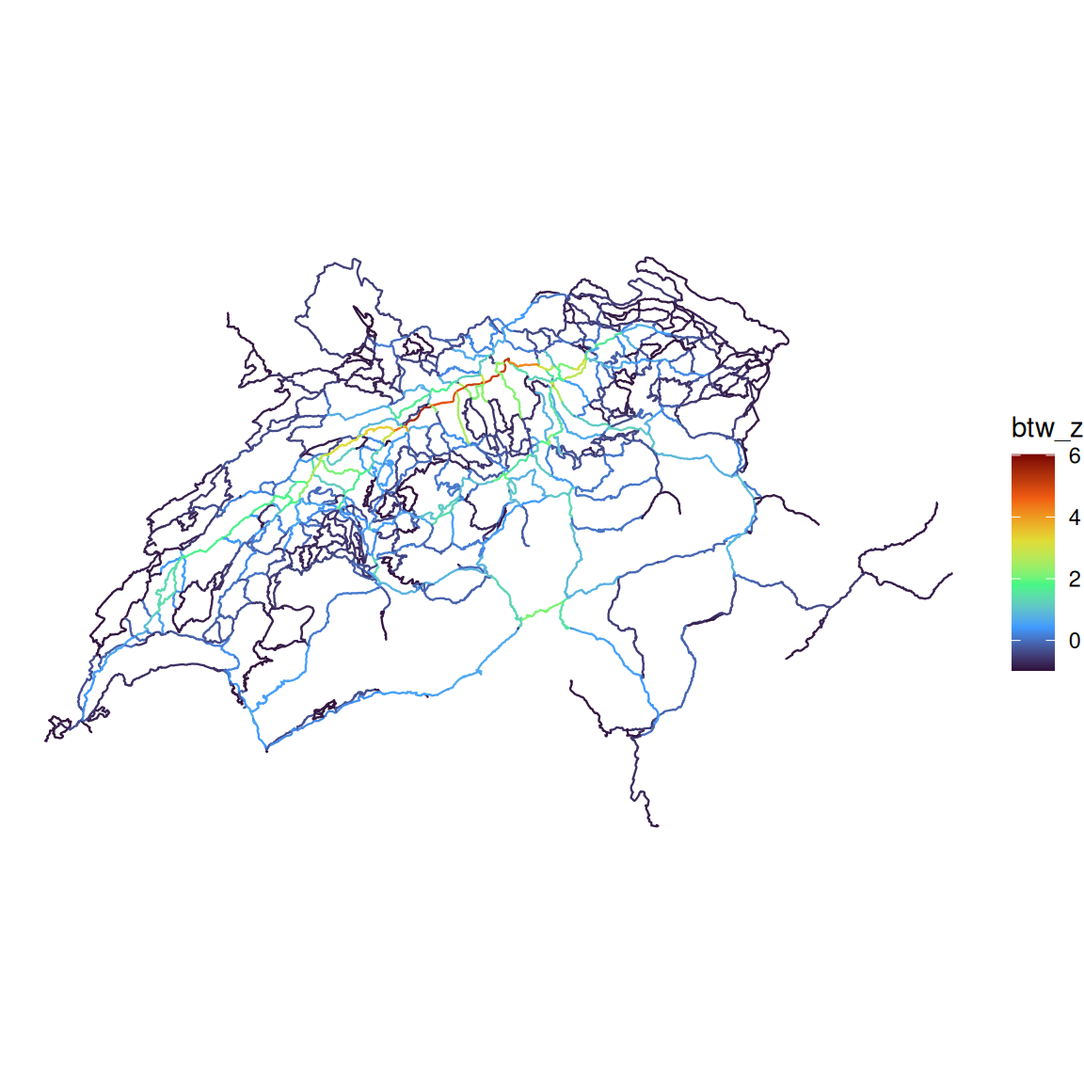
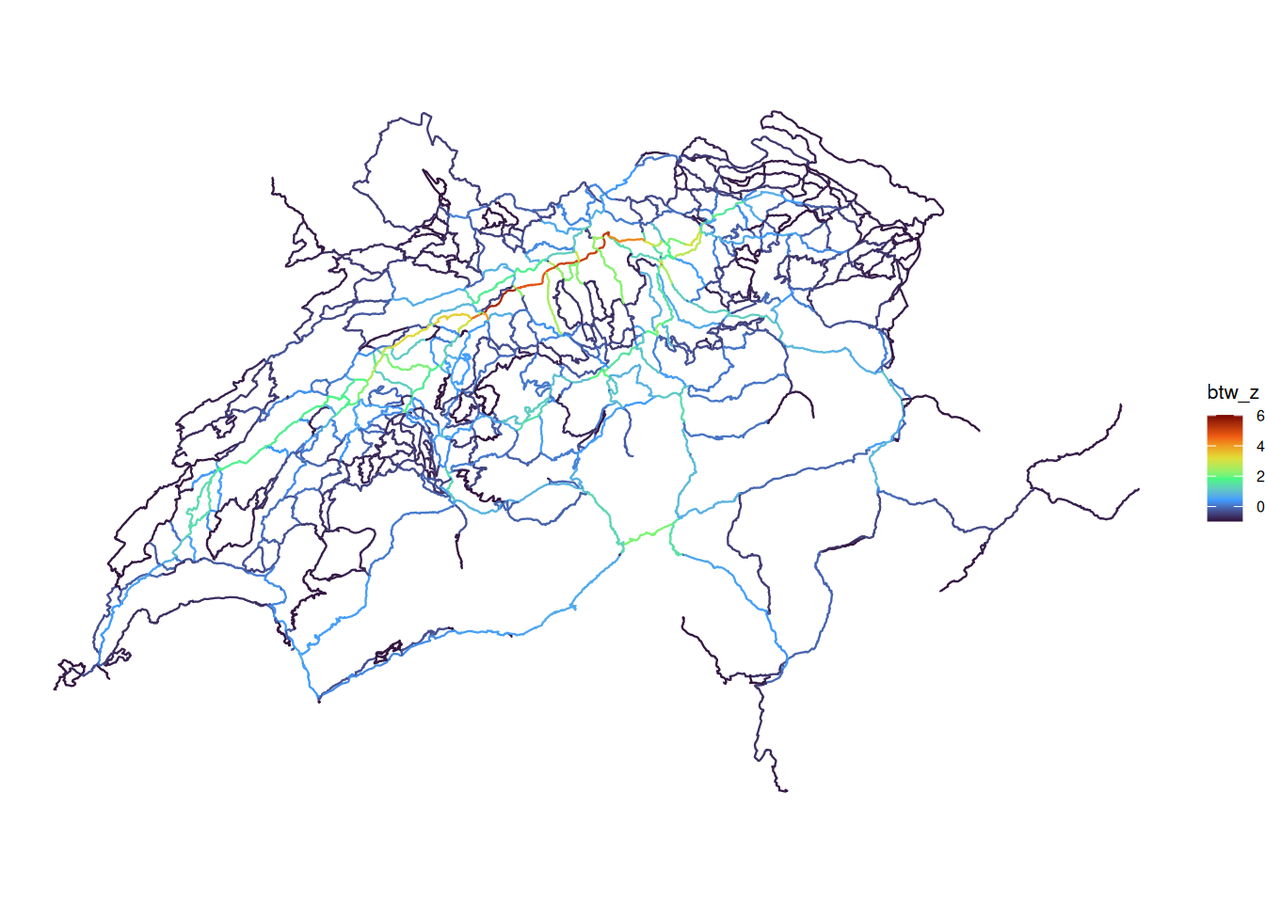
Built site for gh-pages

diff --git a/index.html b/index.html
@@ -244,29 +244,47 @@ Projected CRS: CH1903+ / LV95</code></pre>
 <div class="code-copy-outer-scaffold"><div class="sourceCode cell-code" id="cb9"><pre class="sourceCode r code-with-copy"><code class="sourceCode r"><span id="cb9-1"><a href="#cb9-1" aria-hidden="true" tabindex="-1"></a><span class="fu">ggplot</span>(edges_sf) <span class="sc">+</span> </span>
 <span id="cb9-2"><a href="#cb9-2" aria-hidden="true" tabindex="-1"></a>  <span class="fu">geom_sf</span>(<span class="fu">aes</span>(<span class="at">color =</span> betweenness_centrality), <span class="at">size =</span> <span class="fl">0.4</span>) <span class="sc">+</span> </span>
 <span id="cb9-3"><a href="#cb9-3" aria-hidden="true" tabindex="-1"></a>  <span class="fu">scale_color_viridis_c</span>(<span class="at">option =</span> <span class="st">"turbo"</span>) <span class="sc">+</span> </span>
-<span id="cb9-4"><a href="#cb9-4" aria-hidden="true" tabindex="-1"></a>  <span class="fu">theme_void</span>()</span>
-<span id="cb9-5"><a href="#cb9-5" aria-hidden="true" tabindex="-1"></a><span class="fu">ggplot</span>(edges_sf) <span class="sc">+</span> </span>
-<span id="cb9-6"><a href="#cb9-6" aria-hidden="true" tabindex="-1"></a>  <span class="fu">geom_sf</span>(<span class="fu">aes</span>(<span class="at">color =</span> closeness_centrality), <span class="at">size =</span> <span class="fl">0.4</span>) <span class="sc">+</span> </span>
-<span id="cb9-7"><a href="#cb9-7" aria-hidden="true" tabindex="-1"></a>  <span class="fu">scale_color_viridis_c</span>(<span class="at">option =</span> <span class="st">"turbo"</span>) <span class="sc">+</span> </span>
-<span id="cb9-8"><a href="#cb9-8" aria-hidden="true" tabindex="-1"></a>  <span class="fu">theme_void</span>()</span>
-<span id="cb9-9"><a href="#cb9-9" aria-hidden="true" tabindex="-1"></a><span class="fu">ggplot</span>(edges_sf) <span class="sc">+</span> </span>
-<span id="cb9-10"><a href="#cb9-10" aria-hidden="true" tabindex="-1"></a>  <span class="fu">geom_sf</span>(<span class="fu">aes</span>(<span class="at">color =</span> degree_centrality), <span class="at">size =</span> <span class="fl">0.4</span>) <span class="sc">+</span></span>
-<span id="cb9-11"><a href="#cb9-11" aria-hidden="true" tabindex="-1"></a>  <span class="fu">scale_color_viridis_c</span>(<span class="at">option =</span> <span class="st">"turbo"</span>) <span class="sc">+</span> </span>
-<span id="cb9-12"><a href="#cb9-12" aria-hidden="true" tabindex="-1"></a>  <span class="fu">theme_void</span>()</span></code></pre></div><button title="Copy to Clipboard" class="code-copy-button"><i class="bi"></i></button></div>
+<span id="cb9-4"><a href="#cb9-4" aria-hidden="true" tabindex="-1"></a>  <span class="fu">theme_void</span>() <span class="sc">+</span> </span>
+<span id="cb9-5"><a href="#cb9-5" aria-hidden="true" tabindex="-1"></a>    <span class="fu">theme</span>(</span>
+<span id="cb9-6"><a href="#cb9-6" aria-hidden="true" tabindex="-1"></a>  <span class="at">legend.title =</span> <span class="fu">element_text</span>(<span class="at">size =</span> <span class="dv">8</span>),</span>
+<span id="cb9-7"><a href="#cb9-7" aria-hidden="true" tabindex="-1"></a>  <span class="at">legend.text  =</span> <span class="fu">element_text</span>(<span class="at">size =</span> <span class="dv">6</span>),</span>
+<span id="cb9-8"><a href="#cb9-8" aria-hidden="true" tabindex="-1"></a>  <span class="at">legend.key.height =</span> <span class="fu">unit</span>(<span class="fl">0.3</span>, <span class="st">"cm"</span>),</span>
+<span id="cb9-9"><a href="#cb9-9" aria-hidden="true" tabindex="-1"></a>  <span class="at">legend.key.width  =</span> <span class="fu">unit</span>(<span class="fl">0.5</span>, <span class="st">"cm"</span>)</span>
+<span id="cb9-10"><a href="#cb9-10" aria-hidden="true" tabindex="-1"></a>)</span>
+<span id="cb9-11"><a href="#cb9-11" aria-hidden="true" tabindex="-1"></a><span class="fu">ggplot</span>(edges_sf) <span class="sc">+</span> </span>
+<span id="cb9-12"><a href="#cb9-12" aria-hidden="true" tabindex="-1"></a>  <span class="fu">geom_sf</span>(<span class="fu">aes</span>(<span class="at">color =</span> closeness_centrality), <span class="at">size =</span> <span class="fl">0.4</span>) <span class="sc">+</span> </span>
+<span id="cb9-13"><a href="#cb9-13" aria-hidden="true" tabindex="-1"></a>  <span class="fu">scale_color_viridis_c</span>(<span class="at">option =</span> <span class="st">"turbo"</span>) <span class="sc">+</span> </span>
+<span id="cb9-14"><a href="#cb9-14" aria-hidden="true" tabindex="-1"></a>  <span class="fu">theme_void</span>() <span class="sc">+</span> </span>
+<span id="cb9-15"><a href="#cb9-15" aria-hidden="true" tabindex="-1"></a>    <span class="fu">theme</span>(</span>
+<span id="cb9-16"><a href="#cb9-16" aria-hidden="true" tabindex="-1"></a>  <span class="at">legend.title =</span> <span class="fu">element_text</span>(<span class="at">size =</span> <span class="dv">8</span>),</span>
+<span id="cb9-17"><a href="#cb9-17" aria-hidden="true" tabindex="-1"></a>  <span class="at">legend.text  =</span> <span class="fu">element_text</span>(<span class="at">size =</span> <span class="dv">6</span>),</span>
+<span id="cb9-18"><a href="#cb9-18" aria-hidden="true" tabindex="-1"></a>  <span class="at">legend.key.height =</span> <span class="fu">unit</span>(<span class="fl">0.3</span>, <span class="st">"cm"</span>),</span>
+<span id="cb9-19"><a href="#cb9-19" aria-hidden="true" tabindex="-1"></a>  <span class="at">legend.key.width  =</span> <span class="fu">unit</span>(<span class="fl">0.5</span>, <span class="st">"cm"</span>)</span>
+<span id="cb9-20"><a href="#cb9-20" aria-hidden="true" tabindex="-1"></a>)</span>
+<span id="cb9-21"><a href="#cb9-21" aria-hidden="true" tabindex="-1"></a><span class="fu">ggplot</span>(edges_sf) <span class="sc">+</span> </span>
+<span id="cb9-22"><a href="#cb9-22" aria-hidden="true" tabindex="-1"></a>  <span class="fu">geom_sf</span>(<span class="fu">aes</span>(<span class="at">color =</span> degree_centrality), <span class="at">size =</span> <span class="fl">0.4</span>) <span class="sc">+</span></span>
+<span id="cb9-23"><a href="#cb9-23" aria-hidden="true" tabindex="-1"></a>  <span class="fu">scale_color_viridis_c</span>(<span class="at">option =</span> <span class="st">"turbo"</span>) <span class="sc">+</span> </span>
+<span id="cb9-24"><a href="#cb9-24" aria-hidden="true" tabindex="-1"></a>  <span class="fu">theme_void</span>() <span class="sc">+</span></span>
+<span id="cb9-25"><a href="#cb9-25" aria-hidden="true" tabindex="-1"></a>  <span class="fu">theme</span>(</span>
+<span id="cb9-26"><a href="#cb9-26" aria-hidden="true" tabindex="-1"></a>  <span class="at">legend.title =</span> <span class="fu">element_text</span>(<span class="at">size =</span> <span class="dv">8</span>),</span>
+<span id="cb9-27"><a href="#cb9-27" aria-hidden="true" tabindex="-1"></a>  <span class="at">legend.text  =</span> <span class="fu">element_text</span>(<span class="at">size =</span> <span class="dv">6</span>),</span>
+<span id="cb9-28"><a href="#cb9-28" aria-hidden="true" tabindex="-1"></a>  <span class="at">legend.key.height =</span> <span class="fu">unit</span>(<span class="fl">0.3</span>, <span class="st">"cm"</span>),</span>
+<span id="cb9-29"><a href="#cb9-29" aria-hidden="true" tabindex="-1"></a>  <span class="at">legend.key.width  =</span> <span class="fu">unit</span>(<span class="fl">0.5</span>, <span class="st">"cm"</span>)</span>
+<span id="cb9-30"><a href="#cb9-30" aria-hidden="true" tabindex="-1"></a>)</span></code></pre></div><button title="Copy to Clipboard" class="code-copy-button"><i class="bi"></i></button></div>
 <div class="cell quarto-layout-panel" data-fig-row="3" data-layout-ncol="1">
 <div class="quarto-layout-row">
 <div class="quarto-layout-cell" style="flex-basis: 100.0%;justify-content: center;">
-<p><img src="index_files/figure-html/plot%20raw-1.png" class="img-fluid" width="576"></p>
+<p><img src="index_files/figure-html/plot%20raw-1.png" class="img-fluid" width="1152"></p>
 </div>
 </div>
 <div class="quarto-layout-row">
 <div class="quarto-layout-cell" style="flex-basis: 100.0%;justify-content: center;">
-<p><img src="index_files/figure-html/plot%20raw-2.png" class="img-fluid" width="576"></p>
+<p><img src="index_files/figure-html/plot%20raw-2.png" class="img-fluid" width="1152"></p>
 </div>
 </div>
 <div class="quarto-layout-row">
 <div class="quarto-layout-cell" style="flex-basis: 100.0%;justify-content: center;">
-<p><img src="index_files/figure-html/plot%20raw-3.png" class="img-fluid" width="576"></p>
+<p><img src="index_files/figure-html/plot%20raw-3.png" class="img-fluid" width="1152"></p>
 </div>
 </div>
 </div>
@@ -296,32 +314,56 @@ Projected CRS: CH1903+ / LV95</code></pre>
 <span id="cb12-2"><a href="#cb12-2" aria-hidden="true" tabindex="-1"></a>edges_sf<span class="sc">$</span>clo_z <span class="ot">&lt;-</span> <span class="fu">scale</span>(edges_sf<span class="sc">$</span>closeness_centrality)</span>
 <span id="cb12-3"><a href="#cb12-3" aria-hidden="true" tabindex="-1"></a>edges_sf<span class="sc">$</span>deg_z <span class="ot">&lt;-</span> <span class="fu">scale</span>(edges_sf<span class="sc">$</span>degree_centrality)</span></code></pre></div><button title="Copy to Clipboard" class="code-copy-button"><i class="bi"></i></button></div>
 </div>
+<div class="cell">
 <div class="code-copy-outer-scaffold"><div class="sourceCode cell-code" id="cb13"><pre class="sourceCode r code-with-copy"><code class="sourceCode r"><span id="cb13-1"><a href="#cb13-1" aria-hidden="true" tabindex="-1"></a><span class="fu">ggplot</span>(edges_sf) <span class="sc">+</span> </span>
 <span id="cb13-2"><a href="#cb13-2" aria-hidden="true" tabindex="-1"></a>  <span class="fu">geom_sf</span>(<span class="fu">aes</span>(<span class="at">color =</span> btw_z), <span class="at">size =</span> <span class="fl">0.4</span>) <span class="sc">+</span> </span>
 <span id="cb13-3"><a href="#cb13-3" aria-hidden="true" tabindex="-1"></a>  <span class="fu">scale_color_viridis_c</span>(<span class="at">option =</span> <span class="st">"turbo"</span>) <span class="sc">+</span> </span>
-<span id="cb13-4"><a href="#cb13-4" aria-hidden="true" tabindex="-1"></a>  <span class="fu">theme_void</span>()</span>
-<span id="cb13-5"><a href="#cb13-5" aria-hidden="true" tabindex="-1"></a><span class="fu">ggplot</span>(edges_sf) <span class="sc">+</span> </span>
-<span id="cb13-6"><a href="#cb13-6" aria-hidden="true" tabindex="-1"></a>  <span class="fu">geom_sf</span>(<span class="fu">aes</span>(<span class="at">color =</span> clo_z), <span class="at">size =</span> <span class="fl">0.4</span>) <span class="sc">+</span> </span>
-<span id="cb13-7"><a href="#cb13-7" aria-hidden="true" tabindex="-1"></a>  <span class="fu">scale_color_viridis_c</span>(<span class="at">option =</span> <span class="st">"turbo"</span>) <span class="sc">+</span> </span>
-<span id="cb13-8"><a href="#cb13-8" aria-hidden="true" tabindex="-1"></a>  <span class="fu">theme_void</span>()</span>
-<span id="cb13-9"><a href="#cb13-9" aria-hidden="true" tabindex="-1"></a><span class="fu">ggplot</span>(edges_sf) <span class="sc">+</span> </span>
-<span id="cb13-10"><a href="#cb13-10" aria-hidden="true" tabindex="-1"></a>  <span class="fu">geom_sf</span>(<span class="fu">aes</span>(<span class="at">color =</span> deg_z), <span class="at">size =</span> <span class="fl">0.4</span>) <span class="sc">+</span></span>
-<span id="cb13-11"><a href="#cb13-11" aria-hidden="true" tabindex="-1"></a>  <span class="fu">scale_color_viridis_c</span>(<span class="at">option =</span> <span class="st">"turbo"</span>) <span class="sc">+</span> </span>
-<span id="cb13-12"><a href="#cb13-12" aria-hidden="true" tabindex="-1"></a>  <span class="fu">theme_void</span>()</span></code></pre></div><button title="Copy to Clipboard" class="code-copy-button"><i class="bi"></i></button></div>
-<div class="cell quarto-layout-panel" data-fig-row="3" data-layout-ncol="1">
-<div class="quarto-layout-row">
-<div class="quarto-layout-cell" style="flex-basis: 100.0%;justify-content: center;">
-<p><img src="index_files/figure-html/plot%20z-scores-1.png" class="img-fluid" width="576"></p>
+<span id="cb13-4"><a href="#cb13-4" aria-hidden="true" tabindex="-1"></a>  <span class="fu">theme_void</span>()  <span class="sc">+</span> </span>
+<span id="cb13-5"><a href="#cb13-5" aria-hidden="true" tabindex="-1"></a>    <span class="fu">theme</span>(</span>
+<span id="cb13-6"><a href="#cb13-6" aria-hidden="true" tabindex="-1"></a>  <span class="at">legend.title =</span> <span class="fu">element_text</span>(<span class="at">size =</span> <span class="dv">8</span>),</span>
+<span id="cb13-7"><a href="#cb13-7" aria-hidden="true" tabindex="-1"></a>  <span class="at">legend.text  =</span> <span class="fu">element_text</span>(<span class="at">size =</span> <span class="dv">6</span>),</span>
+<span id="cb13-8"><a href="#cb13-8" aria-hidden="true" tabindex="-1"></a>  <span class="at">legend.key.height =</span> <span class="fu">unit</span>(<span class="fl">0.3</span>, <span class="st">"cm"</span>),</span>
+<span id="cb13-9"><a href="#cb13-9" aria-hidden="true" tabindex="-1"></a>  <span class="at">legend.key.width  =</span> <span class="fu">unit</span>(<span class="fl">0.5</span>, <span class="st">"cm"</span>)</span>
+<span id="cb13-10"><a href="#cb13-10" aria-hidden="true" tabindex="-1"></a>)</span></code></pre></div><button title="Copy to Clipboard" class="code-copy-button"><i class="bi"></i></button></div>
+<div class="cell-output-display">
+<div>
+<figure class="figure">
+<p><img src="index_files/figure-html/plot%20z-scores-1.png" class="img-fluid figure-img" width="672"></p>
+</figure>
 </div>
 </div>
-<div class="quarto-layout-row">
-<div class="quarto-layout-cell" style="flex-basis: 100.0%;justify-content: center;">
-<p><img src="index_files/figure-html/plot%20z-scores-2.png" class="img-fluid" width="576"></p>
+<div class="code-copy-outer-scaffold"><div class="sourceCode cell-code" id="cb14"><pre class="sourceCode r code-with-copy"><code class="sourceCode r"><span id="cb14-1"><a href="#cb14-1" aria-hidden="true" tabindex="-1"></a><span class="fu">ggplot</span>(edges_sf) <span class="sc">+</span> </span>
+<span id="cb14-2"><a href="#cb14-2" aria-hidden="true" tabindex="-1"></a>  <span class="fu">geom_sf</span>(<span class="fu">aes</span>(<span class="at">color =</span> clo_z), <span class="at">size =</span> <span class="fl">0.4</span>) <span class="sc">+</span> </span>
+<span id="cb14-3"><a href="#cb14-3" aria-hidden="true" tabindex="-1"></a>  <span class="fu">scale_color_viridis_c</span>(<span class="at">option =</span> <span class="st">"turbo"</span>) <span class="sc">+</span> </span>
+<span id="cb14-4"><a href="#cb14-4" aria-hidden="true" tabindex="-1"></a>  <span class="fu">theme_void</span>()  <span class="sc">+</span> </span>
+<span id="cb14-5"><a href="#cb14-5" aria-hidden="true" tabindex="-1"></a>    <span class="fu">theme</span>(</span>
+<span id="cb14-6"><a href="#cb14-6" aria-hidden="true" tabindex="-1"></a>  <span class="at">legend.title =</span> <span class="fu">element_text</span>(<span class="at">size =</span> <span class="dv">8</span>),</span>
+<span id="cb14-7"><a href="#cb14-7" aria-hidden="true" tabindex="-1"></a>  <span class="at">legend.text  =</span> <span class="fu">element_text</span>(<span class="at">size =</span> <span class="dv">6</span>),</span>
+<span id="cb14-8"><a href="#cb14-8" aria-hidden="true" tabindex="-1"></a>  <span class="at">legend.key.height =</span> <span class="fu">unit</span>(<span class="fl">0.3</span>, <span class="st">"cm"</span>),</span>
+<span id="cb14-9"><a href="#cb14-9" aria-hidden="true" tabindex="-1"></a>  <span class="at">legend.key.width  =</span> <span class="fu">unit</span>(<span class="fl">0.5</span>, <span class="st">"cm"</span>)</span>
+<span id="cb14-10"><a href="#cb14-10" aria-hidden="true" tabindex="-1"></a>)</span></code></pre></div><button title="Copy to Clipboard" class="code-copy-button"><i class="bi"></i></button></div>
+<div class="cell-output-display">
+<div>
+<figure class="figure">
+<p><img src="index_files/figure-html/plot%20z-scores-2.png" class="img-fluid figure-img" width="672"></p>
+</figure>
 </div>
 </div>
-<div class="quarto-layout-row">
-<div class="quarto-layout-cell" style="flex-basis: 100.0%;justify-content: center;">
-<p><img src="index_files/figure-html/plot%20z-scores-3.png" class="img-fluid" width="576"></p>
+<div class="code-copy-outer-scaffold"><div class="sourceCode cell-code" id="cb15"><pre class="sourceCode r code-with-copy"><code class="sourceCode r"><span id="cb15-1"><a href="#cb15-1" aria-hidden="true" tabindex="-1"></a><span class="fu">ggplot</span>(edges_sf) <span class="sc">+</span> </span>
+<span id="cb15-2"><a href="#cb15-2" aria-hidden="true" tabindex="-1"></a>  <span class="fu">geom_sf</span>(<span class="fu">aes</span>(<span class="at">color =</span> deg_z), <span class="at">size =</span> <span class="fl">0.4</span>) <span class="sc">+</span></span>
+<span id="cb15-3"><a href="#cb15-3" aria-hidden="true" tabindex="-1"></a>  <span class="fu">scale_color_viridis_c</span>(<span class="at">option =</span> <span class="st">"turbo"</span>) <span class="sc">+</span> </span>
+<span id="cb15-4"><a href="#cb15-4" aria-hidden="true" tabindex="-1"></a>  <span class="fu">theme_void</span>() <span class="sc">+</span> </span>
+<span id="cb15-5"><a href="#cb15-5" aria-hidden="true" tabindex="-1"></a>    <span class="fu">theme</span>(</span>
+<span id="cb15-6"><a href="#cb15-6" aria-hidden="true" tabindex="-1"></a>  <span class="at">legend.title =</span> <span class="fu">element_text</span>(<span class="at">size =</span> <span class="dv">8</span>),</span>
+<span id="cb15-7"><a href="#cb15-7" aria-hidden="true" tabindex="-1"></a>  <span class="at">legend.text  =</span> <span class="fu">element_text</span>(<span class="at">size =</span> <span class="dv">6</span>),</span>
+<span id="cb15-8"><a href="#cb15-8" aria-hidden="true" tabindex="-1"></a>  <span class="at">legend.key.height =</span> <span class="fu">unit</span>(<span class="fl">0.3</span>, <span class="st">"cm"</span>),</span>
+<span id="cb15-9"><a href="#cb15-9" aria-hidden="true" tabindex="-1"></a>  <span class="at">legend.key.width  =</span> <span class="fu">unit</span>(<span class="fl">0.5</span>, <span class="st">"cm"</span>)</span>
+<span id="cb15-10"><a href="#cb15-10" aria-hidden="true" tabindex="-1"></a>)</span></code></pre></div><button title="Copy to Clipboard" class="code-copy-button"><i class="bi"></i></button></div>
+<div class="cell-output-display">
+<div>
+<figure class="figure">
+<p><img src="index_files/figure-html/plot%20z-scores-3.png" class="img-fluid figure-img" width="672"></p>
+</figure>
 </div>
 </div>
 </div>
@@ -353,10 +395,10 @@ Projected CRS: CH1903+ / LV95</code></pre>
 <h3 class="anchored" data-anchor-id="prepare-the-data">Prepare the data</h3>
 <p>In this first step, I load the location data from a GeoPackage file into R using st_read(). This gives me a spatial dataset of all relevant places that I will use as start and end points for the routing analysis.</p>
 <div class="cell">
-<div class="code-copy-outer-scaffold"><div class="sourceCode cell-code" id="cb14"><pre class="sourceCode r code-with-copy"><code class="sourceCode r"><span id="cb14-1"><a href="#cb14-1" aria-hidden="true" tabindex="-1"></a><span class="co"># Construct the file path</span></span>
-<span id="cb14-2"><a href="#cb14-2" aria-hidden="true" tabindex="-1"></a>gpkg_path_locs <span class="ot">&lt;-</span> <span class="fu">file.path</span>(<span class="fu">Sys.getenv</span>(<span class="st">"GEODATA"</span>), <span class="st">"locations.gpkg"</span>)</span>
-<span id="cb14-3"><a href="#cb14-3" aria-hidden="true" tabindex="-1"></a></span>
-<span id="cb14-4"><a href="#cb14-4" aria-hidden="true" tabindex="-1"></a>locations <span class="ot">&lt;-</span> <span class="fu">st_read</span>(gpkg_path_locs)</span></code></pre></div><button title="Copy to Clipboard" class="code-copy-button"><i class="bi"></i></button></div>
+<div class="code-copy-outer-scaffold"><div class="sourceCode cell-code" id="cb16"><pre class="sourceCode r code-with-copy"><code class="sourceCode r"><span id="cb16-1"><a href="#cb16-1" aria-hidden="true" tabindex="-1"></a><span class="co"># Construct the file path</span></span>
+<span id="cb16-2"><a href="#cb16-2" aria-hidden="true" tabindex="-1"></a>gpkg_path_locs <span class="ot">&lt;-</span> <span class="fu">file.path</span>(<span class="fu">Sys.getenv</span>(<span class="st">"GEODATA"</span>), <span class="st">"locations.gpkg"</span>)</span>
+<span id="cb16-3"><a href="#cb16-3" aria-hidden="true" tabindex="-1"></a></span>
+<span id="cb16-4"><a href="#cb16-4" aria-hidden="true" tabindex="-1"></a>locations <span class="ot">&lt;-</span> <span class="fu">st_read</span>(gpkg_path_locs)</span></code></pre></div><button title="Copy to Clipboard" class="code-copy-button"><i class="bi"></i></button></div>
 <div class="cell-output cell-output-stdout">
 <pre><code>Reading layer `locations' from data source 
   `/home/rhoumyas/data/geodata/locations.gpkg' using driver `GPKG'
@@ -372,87 +414,87 @@ Projected CRS: CH1903+ / LV95</code></pre>
 <h3 class="anchored" data-anchor-id="defining-origin-and-destinations">Defining origin and destinations</h3>
 <p>From this set, I define one specific location (Chiasso) as the origin, and all other locations as destinations.</p>
 <div class="cell">
-<div class="code-copy-outer-scaffold"><div class="sourceCode cell-code" id="cb16"><pre class="sourceCode r code-with-copy"><code class="sourceCode r"><span id="cb16-1"><a href="#cb16-1" aria-hidden="true" tabindex="-1"></a>origin <span class="ot">&lt;-</span> locations <span class="sc">%&gt;%</span></span>
-<span id="cb16-2"><a href="#cb16-2" aria-hidden="true" tabindex="-1"></a>  <span class="fu">filter</span>(Ortschaft <span class="sc">==</span> <span class="st">"Chiasso"</span>)</span>
-<span id="cb16-3"><a href="#cb16-3" aria-hidden="true" tabindex="-1"></a></span>
-<span id="cb16-4"><a href="#cb16-4" aria-hidden="true" tabindex="-1"></a>destination <span class="ot">&lt;-</span> locations <span class="sc">%&gt;%</span></span>
-<span id="cb16-5"><a href="#cb16-5" aria-hidden="true" tabindex="-1"></a>  <span class="fu">filter</span>(Ortschaft <span class="sc">!=</span> <span class="st">"Chiasso"</span>)</span></code></pre></div><button title="Copy to Clipboard" class="code-copy-button"><i class="bi"></i></button></div>
+<div class="code-copy-outer-scaffold"><div class="sourceCode cell-code" id="cb18"><pre class="sourceCode r code-with-copy"><code class="sourceCode r"><span id="cb18-1"><a href="#cb18-1" aria-hidden="true" tabindex="-1"></a>origin <span class="ot">&lt;-</span> locations <span class="sc">%&gt;%</span></span>
+<span id="cb18-2"><a href="#cb18-2" aria-hidden="true" tabindex="-1"></a>  <span class="fu">filter</span>(Ortschaft <span class="sc">==</span> <span class="st">"Chiasso"</span>)</span>
+<span id="cb18-3"><a href="#cb18-3" aria-hidden="true" tabindex="-1"></a></span>
+<span id="cb18-4"><a href="#cb18-4" aria-hidden="true" tabindex="-1"></a>destination <span class="ot">&lt;-</span> locations <span class="sc">%&gt;%</span></span>
+<span id="cb18-5"><a href="#cb18-5" aria-hidden="true" tabindex="-1"></a>  <span class="fu">filter</span>(Ortschaft <span class="sc">!=</span> <span class="st">"Chiasso"</span>)</span></code></pre></div><button title="Copy to Clipboard" class="code-copy-button"><i class="bi"></i></button></div>
 </div>
 </section>
 <section id="computing-the-shortest-paths" class="level3">
 <h3 class="anchored" data-anchor-id="computing-the-shortest-paths">Computing the shortest paths</h3>
 <p>Here, I calculate the shortest paths from the origin (Chiasso) to all destination points using <code>st_network_paths()</code>. I use the network structure created earlier (Task 1) and define the edge length as the weight, so the algorithm finds the shortest distance-based routes through the cycling network. The output gives me a list of edges for each origin–destination pair.</p>
 <div class="cell">
-<div class="code-copy-outer-scaffold"><div class="sourceCode cell-code" id="cb17"><pre class="sourceCode r code-with-copy"><code class="sourceCode r"><span id="cb17-1"><a href="#cb17-1" aria-hidden="true" tabindex="-1"></a>paths <span class="ot">&lt;-</span> <span class="fu">st_network_paths</span>(</span>
-<span id="cb17-2"><a href="#cb17-2" aria-hidden="true" tabindex="-1"></a>  veloland_net,</span>
-<span id="cb17-3"><a href="#cb17-3" aria-hidden="true" tabindex="-1"></a>  <span class="at">from =</span> origin,</span>
-<span id="cb17-4"><a href="#cb17-4" aria-hidden="true" tabindex="-1"></a>  <span class="at">to =</span> destination,</span>
-<span id="cb17-5"><a href="#cb17-5" aria-hidden="true" tabindex="-1"></a>  <span class="at">weights =</span> veloland_net<span class="sc">$</span>length</span>
-<span id="cb17-6"><a href="#cb17-6" aria-hidden="true" tabindex="-1"></a>)</span></code></pre></div><button title="Copy to Clipboard" class="code-copy-button"><i class="bi"></i></button></div>
+<div class="code-copy-outer-scaffold"><div class="sourceCode cell-code" id="cb19"><pre class="sourceCode r code-with-copy"><code class="sourceCode r"><span id="cb19-1"><a href="#cb19-1" aria-hidden="true" tabindex="-1"></a>paths <span class="ot">&lt;-</span> <span class="fu">st_network_paths</span>(</span>
+<span id="cb19-2"><a href="#cb19-2" aria-hidden="true" tabindex="-1"></a>  veloland_net,</span>
+<span id="cb19-3"><a href="#cb19-3" aria-hidden="true" tabindex="-1"></a>  <span class="at">from =</span> origin,</span>
+<span id="cb19-4"><a href="#cb19-4" aria-hidden="true" tabindex="-1"></a>  <span class="at">to =</span> destination,</span>
+<span id="cb19-5"><a href="#cb19-5" aria-hidden="true" tabindex="-1"></a>  <span class="at">weights =</span> veloland_net<span class="sc">$</span>length</span>
+<span id="cb19-6"><a href="#cb19-6" aria-hidden="true" tabindex="-1"></a>)</span></code></pre></div><button title="Copy to Clipboard" class="code-copy-button"><i class="bi"></i></button></div>
 </div>
 </section>
 <section id="build-edge-path-structure" class="level3">
 <h3 class="anchored" data-anchor-id="build-edge-path-structure">Build edge-path structure</h3>
 <p>In this step, I reorganise the raw output of the shortest path function into a structured format. I create a table that links each destination to the specific network edges used in its shortest path. Then I join this information back to the spatial edge data so that each edge knows which destination it belongs to. This allows me to visualise each route separately instead of merging everything into one combined result.</p>
 <div class="cell">
-<div class="code-copy-outer-scaffold"><div class="sourceCode cell-code" id="cb18"><pre class="sourceCode r code-with-copy"><code class="sourceCode r"><span id="cb18-1"><a href="#cb18-1" aria-hidden="true" tabindex="-1"></a>path_df <span class="ot">&lt;-</span> <span class="fu">tibble</span>(</span>
-<span id="cb18-2"><a href="#cb18-2" aria-hidden="true" tabindex="-1"></a>  <span class="at">dest_id =</span> <span class="fu">rep</span>(<span class="fu">seq_along</span>(paths<span class="sc">$</span>edge_paths), <span class="fu">lengths</span>(paths<span class="sc">$</span>edge_paths)),</span>
-<span id="cb18-3"><a href="#cb18-3" aria-hidden="true" tabindex="-1"></a>  <span class="at">edge_id =</span> <span class="fu">unlist</span>(paths<span class="sc">$</span>edge_paths)</span>
-<span id="cb18-4"><a href="#cb18-4" aria-hidden="true" tabindex="-1"></a>)</span>
-<span id="cb18-5"><a href="#cb18-5" aria-hidden="true" tabindex="-1"></a></span>
-<span id="cb18-6"><a href="#cb18-6" aria-hidden="true" tabindex="-1"></a>edges <span class="ot">&lt;-</span> veloland_net <span class="sc">%&gt;%</span></span>
-<span id="cb18-7"><a href="#cb18-7" aria-hidden="true" tabindex="-1"></a>  <span class="fu">activate</span>(edges) <span class="sc">%&gt;%</span></span>
-<span id="cb18-8"><a href="#cb18-8" aria-hidden="true" tabindex="-1"></a>  <span class="fu">st_as_sf</span>() <span class="sc">%&gt;%</span></span>
-<span id="cb18-9"><a href="#cb18-9" aria-hidden="true" tabindex="-1"></a>  <span class="fu">mutate</span>(<span class="at">edge_id =</span> <span class="fu">row_number</span>())</span>
-<span id="cb18-10"><a href="#cb18-10" aria-hidden="true" tabindex="-1"></a></span>
-<span id="cb18-11"><a href="#cb18-11" aria-hidden="true" tabindex="-1"></a>edges_paths <span class="ot">&lt;-</span> path_df <span class="sc">%&gt;%</span></span>
-<span id="cb18-12"><a href="#cb18-12" aria-hidden="true" tabindex="-1"></a>  <span class="fu">left_join</span>(edges, <span class="at">by =</span> <span class="st">"edge_id"</span>) <span class="sc">%&gt;%</span></span>
-<span id="cb18-13"><a href="#cb18-13" aria-hidden="true" tabindex="-1"></a>  <span class="fu">st_as_sf</span>()</span></code></pre></div><button title="Copy to Clipboard" class="code-copy-button"><i class="bi"></i></button></div>
+<div class="code-copy-outer-scaffold"><div class="sourceCode cell-code" id="cb20"><pre class="sourceCode r code-with-copy"><code class="sourceCode r"><span id="cb20-1"><a href="#cb20-1" aria-hidden="true" tabindex="-1"></a>path_df <span class="ot">&lt;-</span> <span class="fu">tibble</span>(</span>
+<span id="cb20-2"><a href="#cb20-2" aria-hidden="true" tabindex="-1"></a>  <span class="at">dest_id =</span> <span class="fu">rep</span>(<span class="fu">seq_along</span>(paths<span class="sc">$</span>edge_paths), <span class="fu">lengths</span>(paths<span class="sc">$</span>edge_paths)),</span>
+<span id="cb20-3"><a href="#cb20-3" aria-hidden="true" tabindex="-1"></a>  <span class="at">edge_id =</span> <span class="fu">unlist</span>(paths<span class="sc">$</span>edge_paths)</span>
+<span id="cb20-4"><a href="#cb20-4" aria-hidden="true" tabindex="-1"></a>)</span>
+<span id="cb20-5"><a href="#cb20-5" aria-hidden="true" tabindex="-1"></a></span>
+<span id="cb20-6"><a href="#cb20-6" aria-hidden="true" tabindex="-1"></a>edges <span class="ot">&lt;-</span> veloland_net <span class="sc">%&gt;%</span></span>
+<span id="cb20-7"><a href="#cb20-7" aria-hidden="true" tabindex="-1"></a>  <span class="fu">activate</span>(edges) <span class="sc">%&gt;%</span></span>
+<span id="cb20-8"><a href="#cb20-8" aria-hidden="true" tabindex="-1"></a>  <span class="fu">st_as_sf</span>() <span class="sc">%&gt;%</span></span>
+<span id="cb20-9"><a href="#cb20-9" aria-hidden="true" tabindex="-1"></a>  <span class="fu">mutate</span>(<span class="at">edge_id =</span> <span class="fu">row_number</span>())</span>
+<span id="cb20-10"><a href="#cb20-10" aria-hidden="true" tabindex="-1"></a></span>
+<span id="cb20-11"><a href="#cb20-11" aria-hidden="true" tabindex="-1"></a>edges_paths <span class="ot">&lt;-</span> path_df <span class="sc">%&gt;%</span></span>
+<span id="cb20-12"><a href="#cb20-12" aria-hidden="true" tabindex="-1"></a>  <span class="fu">left_join</span>(edges, <span class="at">by =</span> <span class="st">"edge_id"</span>) <span class="sc">%&gt;%</span></span>
+<span id="cb20-13"><a href="#cb20-13" aria-hidden="true" tabindex="-1"></a>  <span class="fu">st_as_sf</span>()</span></code></pre></div><button title="Copy to Clipboard" class="code-copy-button"><i class="bi"></i></button></div>
 </div>
 </section>
 <section id="visualise-routing-results" class="level3">
 <h3 class="anchored" data-anchor-id="visualise-routing-results">Visualise routing results</h3>
 <p>Finally, I visualise the full network together with the computed shortest paths. The grey lines represent the full cycling network, while the coloured lines show the shortest paths from Chiasso to each destination, with different colours for each target location. I also plot the origin in red and the destination points in black, and I add labels for all locations to make the map easier to interpret. The origin is additionally highlighted as “Start” to clearly indicate the reference point.</p>
 <div class="cell">
-<div class="code-copy-outer-scaffold"><div class="sourceCode cell-code" id="cb19"><pre class="sourceCode r code-with-copy"><code class="sourceCode r"><span id="cb19-1"><a href="#cb19-1" aria-hidden="true" tabindex="-1"></a><span class="fu">ggplot</span>() <span class="sc">+</span></span>
-<span id="cb19-2"><a href="#cb19-2" aria-hidden="true" tabindex="-1"></a>  <span class="fu">geom_sf</span>(<span class="at">data =</span> edges, <span class="at">color =</span> <span class="st">"grey85"</span>, <span class="at">size =</span> <span class="fl">0.2</span>) <span class="sc">+</span></span>
-<span id="cb19-3"><a href="#cb19-3" aria-hidden="true" tabindex="-1"></a>  </span>
-<span id="cb19-4"><a href="#cb19-4" aria-hidden="true" tabindex="-1"></a>  <span class="fu">geom_sf</span>(</span>
-<span id="cb19-5"><a href="#cb19-5" aria-hidden="true" tabindex="-1"></a>    <span class="at">data =</span> edges_paths,</span>
-<span id="cb19-6"><a href="#cb19-6" aria-hidden="true" tabindex="-1"></a>    <span class="fu">aes</span>(<span class="at">color =</span> <span class="fu">factor</span>(dest_id)),</span>
-<span id="cb19-7"><a href="#cb19-7" aria-hidden="true" tabindex="-1"></a>    <span class="at">size =</span> <span class="fl">0.6</span>,</span>
-<span id="cb19-8"><a href="#cb19-8" aria-hidden="true" tabindex="-1"></a>    <span class="at">alpha =</span> <span class="fl">0.5</span></span>
-<span id="cb19-9"><a href="#cb19-9" aria-hidden="true" tabindex="-1"></a>  ) <span class="sc">+</span></span>
-<span id="cb19-10"><a href="#cb19-10" aria-hidden="true" tabindex="-1"></a>  </span>
-<span id="cb19-11"><a href="#cb19-11" aria-hidden="true" tabindex="-1"></a>  <span class="fu">geom_sf</span>(<span class="at">data =</span> origin, <span class="at">color =</span> <span class="st">"red"</span>, <span class="at">size =</span> <span class="dv">2</span>) <span class="sc">+</span></span>
-<span id="cb19-12"><a href="#cb19-12" aria-hidden="true" tabindex="-1"></a>  <span class="fu">geom_sf</span>(<span class="at">data =</span> destination, <span class="at">color =</span> <span class="st">"black"</span>, <span class="at">size =</span> <span class="dv">2</span>) <span class="sc">+</span></span>
-<span id="cb19-13"><a href="#cb19-13" aria-hidden="true" tabindex="-1"></a>  </span>
-<span id="cb19-14"><a href="#cb19-14" aria-hidden="true" tabindex="-1"></a>   <span class="co"># labels</span></span>
-<span id="cb19-15"><a href="#cb19-15" aria-hidden="true" tabindex="-1"></a>  <span class="fu">geom_sf_text</span>(</span>
-<span id="cb19-16"><a href="#cb19-16" aria-hidden="true" tabindex="-1"></a>    <span class="at">data =</span> locations,</span>
-<span id="cb19-17"><a href="#cb19-17" aria-hidden="true" tabindex="-1"></a>    <span class="fu">aes</span>(<span class="at">label =</span> Ortschaft),</span>
-<span id="cb19-18"><a href="#cb19-18" aria-hidden="true" tabindex="-1"></a>    <span class="at">size =</span> <span class="dv">3</span>,</span>
-<span id="cb19-19"><a href="#cb19-19" aria-hidden="true" tabindex="-1"></a>    <span class="at">check_overlap =</span> <span class="cn">TRUE</span>,</span>
-<span id="cb19-20"><a href="#cb19-20" aria-hidden="true" tabindex="-1"></a>    <span class="at">nudge_x =</span> <span class="sc">-</span><span class="dv">4500</span>,</span>
-<span id="cb19-21"><a href="#cb19-21" aria-hidden="true" tabindex="-1"></a>    <span class="at">nudge_y =</span> <span class="dv">3000</span>,</span>
-<span id="cb19-22"><a href="#cb19-22" aria-hidden="true" tabindex="-1"></a>    <span class="at">hjust =</span> <span class="dv">1</span></span>
-<span id="cb19-23"><a href="#cb19-23" aria-hidden="true" tabindex="-1"></a>  ) <span class="sc">+</span></span>
-<span id="cb19-24"><a href="#cb19-24" aria-hidden="true" tabindex="-1"></a>  </span>
-<span id="cb19-25"><a href="#cb19-25" aria-hidden="true" tabindex="-1"></a>  <span class="fu">geom_sf_text</span>(</span>
-<span id="cb19-26"><a href="#cb19-26" aria-hidden="true" tabindex="-1"></a>    <span class="at">data =</span> origin,</span>
-<span id="cb19-27"><a href="#cb19-27" aria-hidden="true" tabindex="-1"></a>    <span class="fu">aes</span>(<span class="at">label =</span> <span class="st">"Start"</span>),</span>
-<span id="cb19-28"><a href="#cb19-28" aria-hidden="true" tabindex="-1"></a>    <span class="at">color=</span><span class="st">'red'</span>,</span>
-<span id="cb19-29"><a href="#cb19-29" aria-hidden="true" tabindex="-1"></a>    <span class="at">size =</span> <span class="dv">3</span>,</span>
-<span id="cb19-30"><a href="#cb19-30" aria-hidden="true" tabindex="-1"></a>    <span class="at">check_overlap =</span> <span class="cn">TRUE</span>,</span>
-<span id="cb19-31"><a href="#cb19-31" aria-hidden="true" tabindex="-1"></a>    <span class="at">nudge_x =</span> <span class="sc">+</span><span class="dv">4500</span>,</span>
-<span id="cb19-32"><a href="#cb19-32" aria-hidden="true" tabindex="-1"></a>    <span class="at">nudge_y =</span> <span class="dv">3000</span>,</span>
-<span id="cb19-33"><a href="#cb19-33" aria-hidden="true" tabindex="-1"></a>    <span class="at">hjust =</span> <span class="dv">0</span>,</span>
-<span id="cb19-34"><a href="#cb19-34" aria-hidden="true" tabindex="-1"></a></span>
-<span id="cb19-35"><a href="#cb19-35" aria-hidden="true" tabindex="-1"></a>  ) <span class="sc">+</span></span>
-<span id="cb19-36"><a href="#cb19-36" aria-hidden="true" tabindex="-1"></a>  </span>
-<span id="cb19-37"><a href="#cb19-37" aria-hidden="true" tabindex="-1"></a>  </span>
-<span id="cb19-38"><a href="#cb19-38" aria-hidden="true" tabindex="-1"></a>  <span class="fu">theme_void</span>() <span class="sc">+</span></span>
-<span id="cb19-39"><a href="#cb19-39" aria-hidden="true" tabindex="-1"></a>  <span class="fu">theme</span>(<span class="at">legend.position =</span> <span class="st">"none"</span>)</span></code></pre></div><button title="Copy to Clipboard" class="code-copy-button"><i class="bi"></i></button></div>
+<div class="code-copy-outer-scaffold"><div class="sourceCode cell-code" id="cb21"><pre class="sourceCode r code-with-copy"><code class="sourceCode r"><span id="cb21-1"><a href="#cb21-1" aria-hidden="true" tabindex="-1"></a><span class="fu">ggplot</span>() <span class="sc">+</span></span>
+<span id="cb21-2"><a href="#cb21-2" aria-hidden="true" tabindex="-1"></a>  <span class="fu">geom_sf</span>(<span class="at">data =</span> edges, <span class="at">color =</span> <span class="st">"grey85"</span>, <span class="at">size =</span> <span class="fl">0.2</span>) <span class="sc">+</span></span>
+<span id="cb21-3"><a href="#cb21-3" aria-hidden="true" tabindex="-1"></a>  </span>
+<span id="cb21-4"><a href="#cb21-4" aria-hidden="true" tabindex="-1"></a>  <span class="fu">geom_sf</span>(</span>
+<span id="cb21-5"><a href="#cb21-5" aria-hidden="true" tabindex="-1"></a>    <span class="at">data =</span> edges_paths,</span>
+<span id="cb21-6"><a href="#cb21-6" aria-hidden="true" tabindex="-1"></a>    <span class="fu">aes</span>(<span class="at">color =</span> <span class="fu">factor</span>(dest_id)),</span>
+<span id="cb21-7"><a href="#cb21-7" aria-hidden="true" tabindex="-1"></a>    <span class="at">size =</span> <span class="fl">0.6</span>,</span>
+<span id="cb21-8"><a href="#cb21-8" aria-hidden="true" tabindex="-1"></a>    <span class="at">alpha =</span> <span class="fl">0.5</span></span>
+<span id="cb21-9"><a href="#cb21-9" aria-hidden="true" tabindex="-1"></a>  ) <span class="sc">+</span></span>
+<span id="cb21-10"><a href="#cb21-10" aria-hidden="true" tabindex="-1"></a>  </span>
+<span id="cb21-11"><a href="#cb21-11" aria-hidden="true" tabindex="-1"></a>  <span class="fu">geom_sf</span>(<span class="at">data =</span> origin, <span class="at">color =</span> <span class="st">"red"</span>, <span class="at">size =</span> <span class="dv">2</span>) <span class="sc">+</span></span>
+<span id="cb21-12"><a href="#cb21-12" aria-hidden="true" tabindex="-1"></a>  <span class="fu">geom_sf</span>(<span class="at">data =</span> destination, <span class="at">color =</span> <span class="st">"black"</span>, <span class="at">size =</span> <span class="dv">2</span>) <span class="sc">+</span></span>
+<span id="cb21-13"><a href="#cb21-13" aria-hidden="true" tabindex="-1"></a>  </span>
+<span id="cb21-14"><a href="#cb21-14" aria-hidden="true" tabindex="-1"></a>   <span class="co"># labels</span></span>
+<span id="cb21-15"><a href="#cb21-15" aria-hidden="true" tabindex="-1"></a>  <span class="fu">geom_sf_text</span>(</span>
+<span id="cb21-16"><a href="#cb21-16" aria-hidden="true" tabindex="-1"></a>    <span class="at">data =</span> locations,</span>
+<span id="cb21-17"><a href="#cb21-17" aria-hidden="true" tabindex="-1"></a>    <span class="fu">aes</span>(<span class="at">label =</span> Ortschaft),</span>
+<span id="cb21-18"><a href="#cb21-18" aria-hidden="true" tabindex="-1"></a>    <span class="at">size =</span> <span class="dv">3</span>,</span>
+<span id="cb21-19"><a href="#cb21-19" aria-hidden="true" tabindex="-1"></a>    <span class="at">check_overlap =</span> <span class="cn">TRUE</span>,</span>
+<span id="cb21-20"><a href="#cb21-20" aria-hidden="true" tabindex="-1"></a>    <span class="at">nudge_x =</span> <span class="sc">-</span><span class="dv">4500</span>,</span>
+<span id="cb21-21"><a href="#cb21-21" aria-hidden="true" tabindex="-1"></a>    <span class="at">nudge_y =</span> <span class="dv">3000</span>,</span>
+<span id="cb21-22"><a href="#cb21-22" aria-hidden="true" tabindex="-1"></a>    <span class="at">hjust =</span> <span class="dv">1</span></span>
+<span id="cb21-23"><a href="#cb21-23" aria-hidden="true" tabindex="-1"></a>  ) <span class="sc">+</span></span>
+<span id="cb21-24"><a href="#cb21-24" aria-hidden="true" tabindex="-1"></a>  </span>
+<span id="cb21-25"><a href="#cb21-25" aria-hidden="true" tabindex="-1"></a>  <span class="fu">geom_sf_text</span>(</span>
+<span id="cb21-26"><a href="#cb21-26" aria-hidden="true" tabindex="-1"></a>    <span class="at">data =</span> origin,</span>
+<span id="cb21-27"><a href="#cb21-27" aria-hidden="true" tabindex="-1"></a>    <span class="fu">aes</span>(<span class="at">label =</span> <span class="st">"Start"</span>),</span>
+<span id="cb21-28"><a href="#cb21-28" aria-hidden="true" tabindex="-1"></a>    <span class="at">color=</span><span class="st">'red'</span>,</span>
+<span id="cb21-29"><a href="#cb21-29" aria-hidden="true" tabindex="-1"></a>    <span class="at">size =</span> <span class="dv">3</span>,</span>
+<span id="cb21-30"><a href="#cb21-30" aria-hidden="true" tabindex="-1"></a>    <span class="at">check_overlap =</span> <span class="cn">TRUE</span>,</span>
+<span id="cb21-31"><a href="#cb21-31" aria-hidden="true" tabindex="-1"></a>    <span class="at">nudge_x =</span> <span class="sc">+</span><span class="dv">4500</span>,</span>
+<span id="cb21-32"><a href="#cb21-32" aria-hidden="true" tabindex="-1"></a>    <span class="at">nudge_y =</span> <span class="dv">3000</span>,</span>
+<span id="cb21-33"><a href="#cb21-33" aria-hidden="true" tabindex="-1"></a>    <span class="at">hjust =</span> <span class="dv">0</span>,</span>
+<span id="cb21-34"><a href="#cb21-34" aria-hidden="true" tabindex="-1"></a></span>
+<span id="cb21-35"><a href="#cb21-35" aria-hidden="true" tabindex="-1"></a>  ) <span class="sc">+</span></span>
+<span id="cb21-36"><a href="#cb21-36" aria-hidden="true" tabindex="-1"></a>  </span>
+<span id="cb21-37"><a href="#cb21-37" aria-hidden="true" tabindex="-1"></a>  </span>
+<span id="cb21-38"><a href="#cb21-38" aria-hidden="true" tabindex="-1"></a>  <span class="fu">theme_void</span>() <span class="sc">+</span></span>
+<span id="cb21-39"><a href="#cb21-39" aria-hidden="true" tabindex="-1"></a>  <span class="fu">theme</span>(<span class="at">legend.position =</span> <span class="st">"none"</span>)</span></code></pre></div><button title="Copy to Clipboard" class="code-copy-button"><i class="bi"></i></button></div>
 <div class="cell-output-display">
 <div>
 <figure class="figure">
